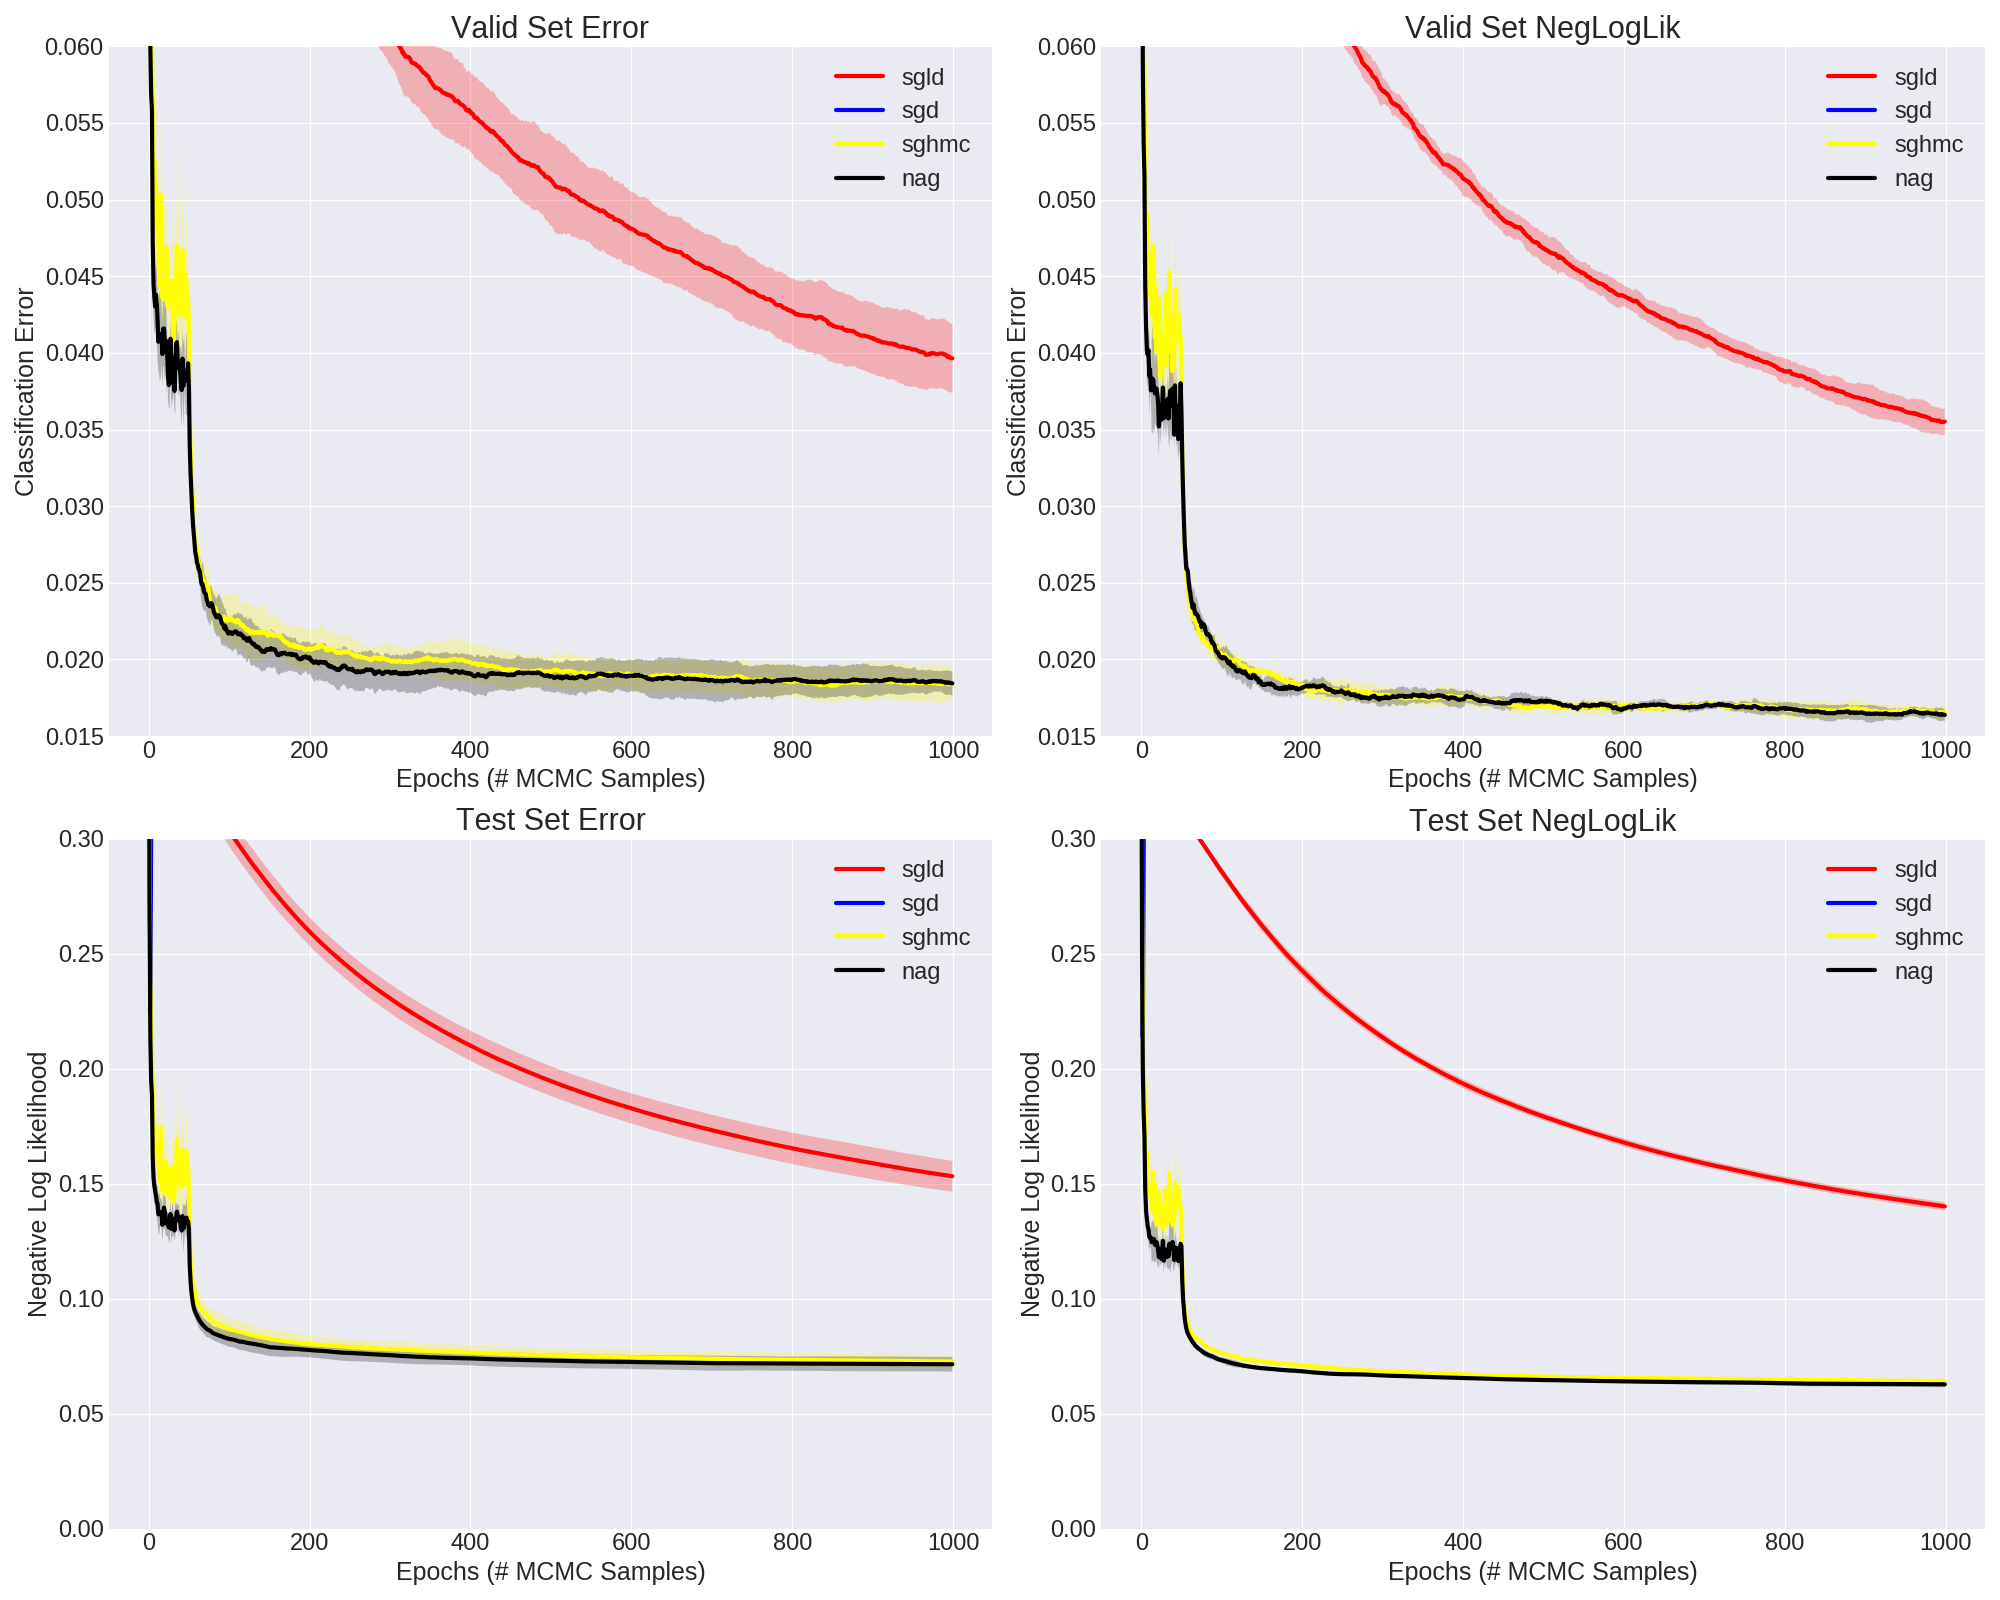
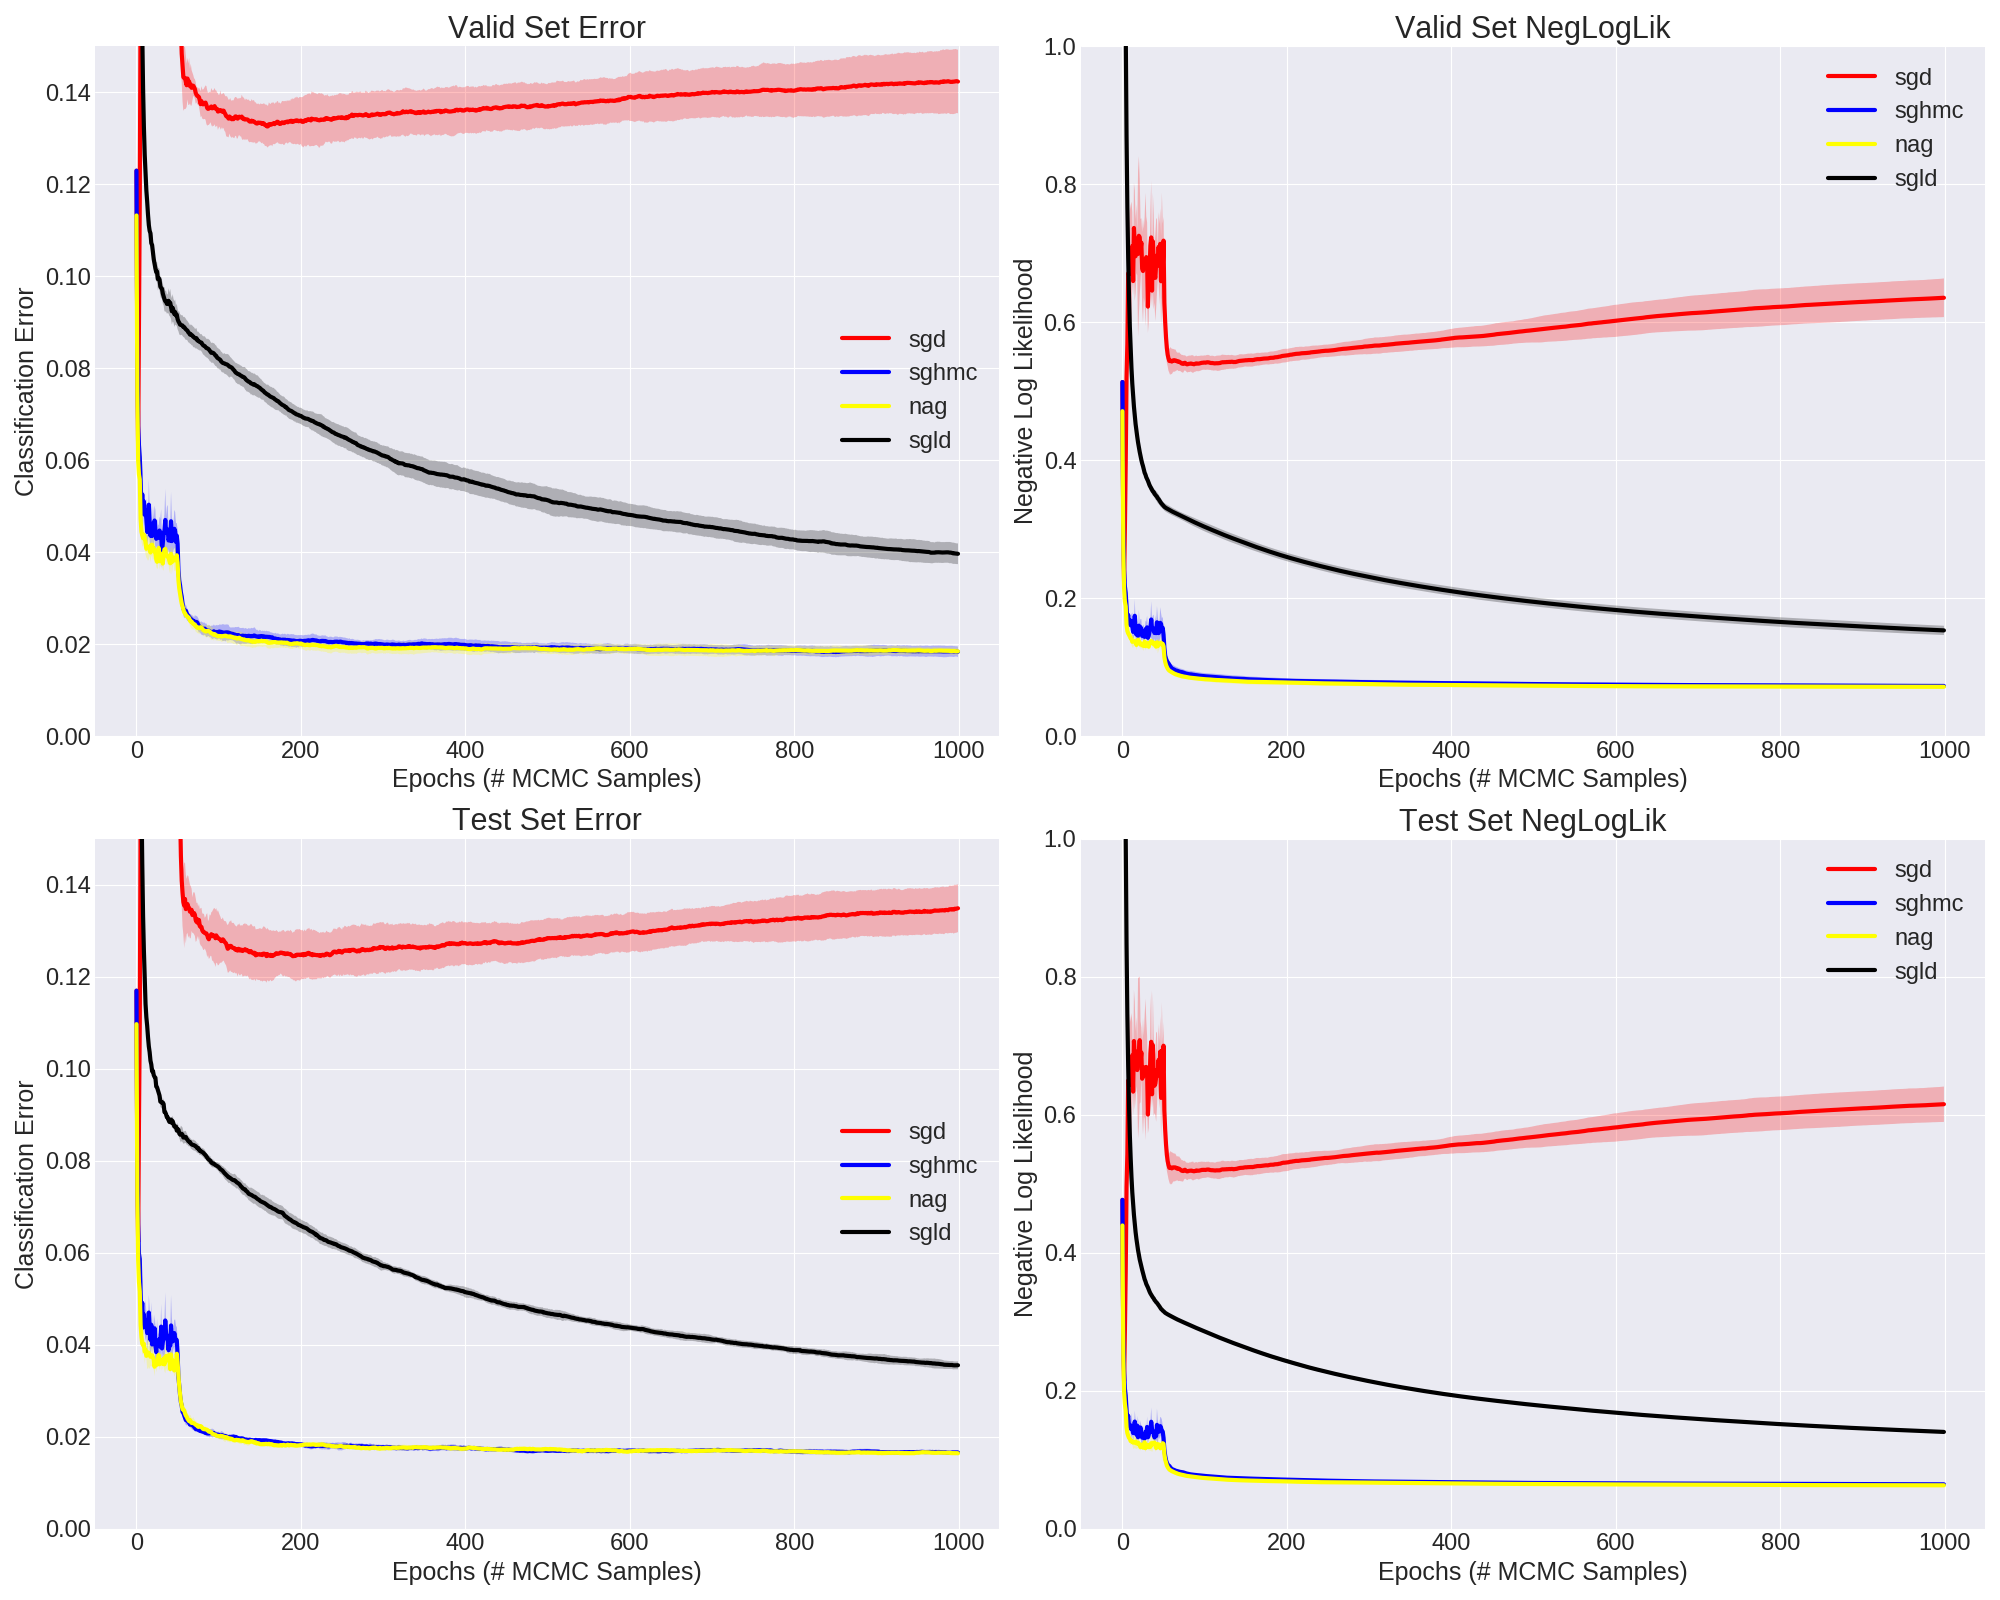
had a few plotting errors. now lets try and scale

diff --git a/bnn/tianqi_chen/plot.py b/bnn/tianqi_chen/plot.py
@@ -74,15 +74,18 @@ def parse(directories):
 
         # Add to our lists.
         errors_v.append(results[:,0])
-        errors_t.append(results[:,1])
-        neglogliks_v.append(results[:,2])
+        neglogliks_v.append(results[:,1])
+        errors_t.append(results[:,2])
         neglogliks_t.append(results[:,3])
 
     errors_v = np.array(errors_v)
     errors_t = np.array(errors_t)
     neglogliks_v = np.array(neglogliks_v)
     neglogliks_t = np.array(neglogliks_t)
-    print("errors_v.shape: {}".format(errors_v.shape))
+    print("\nerrors_v.shape: {}".format(errors_v.shape))
+    print("errors_t.shape: {}".format(errors_t.shape))
+    print("neglogliks_v.shape: {}".format(neglogliks_v.shape))
+    print("neglogliks_t.shape: {}".format(neglogliks_t.shape))
     return errors_v, errors_t, neglogliks_v, neglogliks_t
 
 
@@ -107,7 +110,11 @@ def plot(dirs):
     for cc,name in zip(colors,plot_names):
         directories = plot_names[name]
         errors_v, errors_t, neglogliks_v, neglogliks_t = parse(directories)
+        assert len(errors_v) == len(errors_t) == len(neglogliks_v) == len(neglogliks_t)
         assert errors_v.shape[0] < errors_v.shape[1]
+        assert np.max(errors_v) < 1.0 and np.max(errors_t) < 1.0
+        assert np.min(errors_v) > 0.0 and np.min(errors_t) > 0.0
+        assert np.min(neglogliks_v) > 0.0 and np.min(neglogliks_t) > 0.0
 
         mean_err_v = np.mean(errors_v, axis=0)
         mean_lik_v = np.mean(neglogliks_v, axis=0)
@@ -120,6 +127,7 @@ def plot(dirs):
         std_lik_t  = np.std(neglogliks_t, axis=0)
 
         xcoords = np.arange(len(mean_err_v))
+        assert len(mean_err_t) == len(xcoords) == 1000
         axarr_plot(axarr, 0, 0, xcoords, mean_err_v, std_err_v, cc, name)
         axarr_plot(axarr, 0, 1, xcoords, mean_lik_v, std_lik_v, cc, name)
         axarr_plot(axarr, 1, 0, xcoords, mean_err_t, std_err_t, cc, name)
@@ -132,12 +140,12 @@ def plot(dirs):
             axarr[row,col].tick_params(axis='x', labelsize=tick_size)
             axarr[row,col].tick_params(axis='y', labelsize=tick_size)
             axarr[row,col].legend(loc="best", prop={'size':legend_size})
-            if row == 0:
+            if col == 0:
                 axarr[row,col].set_ylabel("Classification Error", fontsize=ysize)
-                axarr[row,col].set_ylim([0.015, 0.06])
+                axarr[row,col].set_ylim([0.00, 0.15])
             else:
                 axarr[row,col].set_ylabel("Negative Log Likelihood", fontsize=ysize)
-                axarr[row,col].set_ylim([0, 0.3])
+                axarr[row,col].set_ylim([0, 1.0])
     axarr[0,0].set_title("Valid Set Error", fontsize=title_size)
     axarr[0,1].set_title("Valid Set NegLogLik", fontsize=title_size)
     axarr[1,0].set_title("Test Set Error", fontsize=title_size)
